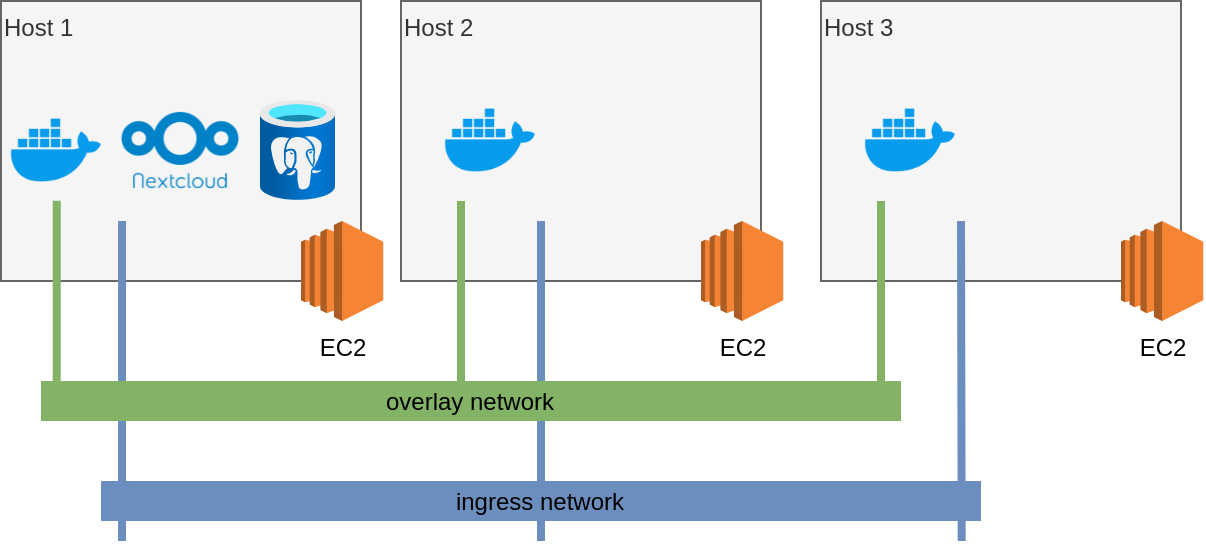
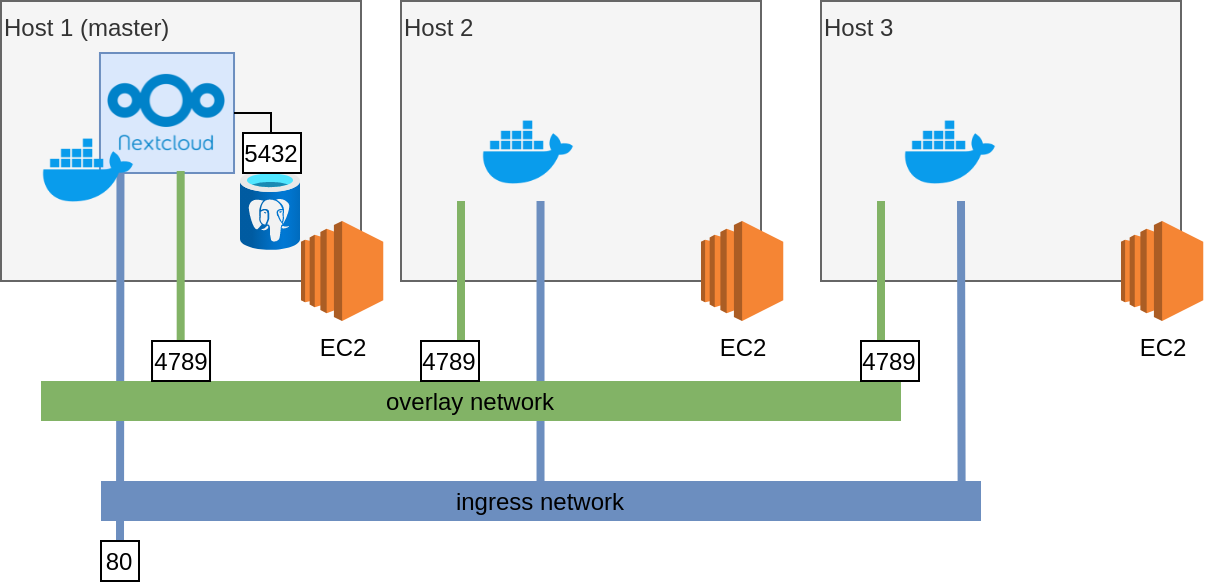
Run nextcloud as container

diff --git a/README.md b/README.md
@@ -21,6 +21,44 @@ pip install boto
 
 2 - Execute Ansible Playbook
 
+There is two types of instalations. The first is master VM installation and the second is simple VM installation. In the master VM, the playbook will install and configure a Postgresql dtabase. The master instalation will be run when you add -e master_node=true in the command line.
+
 ```
-ansible-playbook task.yml -e @localhost.yml
+ansible-playbook aws_vm_provising.yml -e @localhost.yml --ask-vault-pass
+```
+
+3 - SSH to VM to finish configuration
+
+3.1 On the master VM:
+
+3.1.1 Init docker swarm
+
+```
+docker swarm init
+```
+Save the text returned by command. It will anble new hosts to join on the cluster.
+
+3.1.1 Create a overlay network
+
+```
+docker network create --opt encrypted --driver overlay --attachable data-network
+```
+
+3.1.2 Configure Postgresql database
+
+Edit file /etc/postgres/< version >/main/postgresql.conf and add the line
+
+```
+listen_address <ip_of_host> 
+```
+Edit file /etc/postgres/< version >/main/pg_hba.conf and add the line
+
+```
+host    nextcloud   nextcloud   <ip-docker-container>   trust
+```
+
+Restart postgresql
+
+```
+/etc/init.d/postgresql restart
 ```
